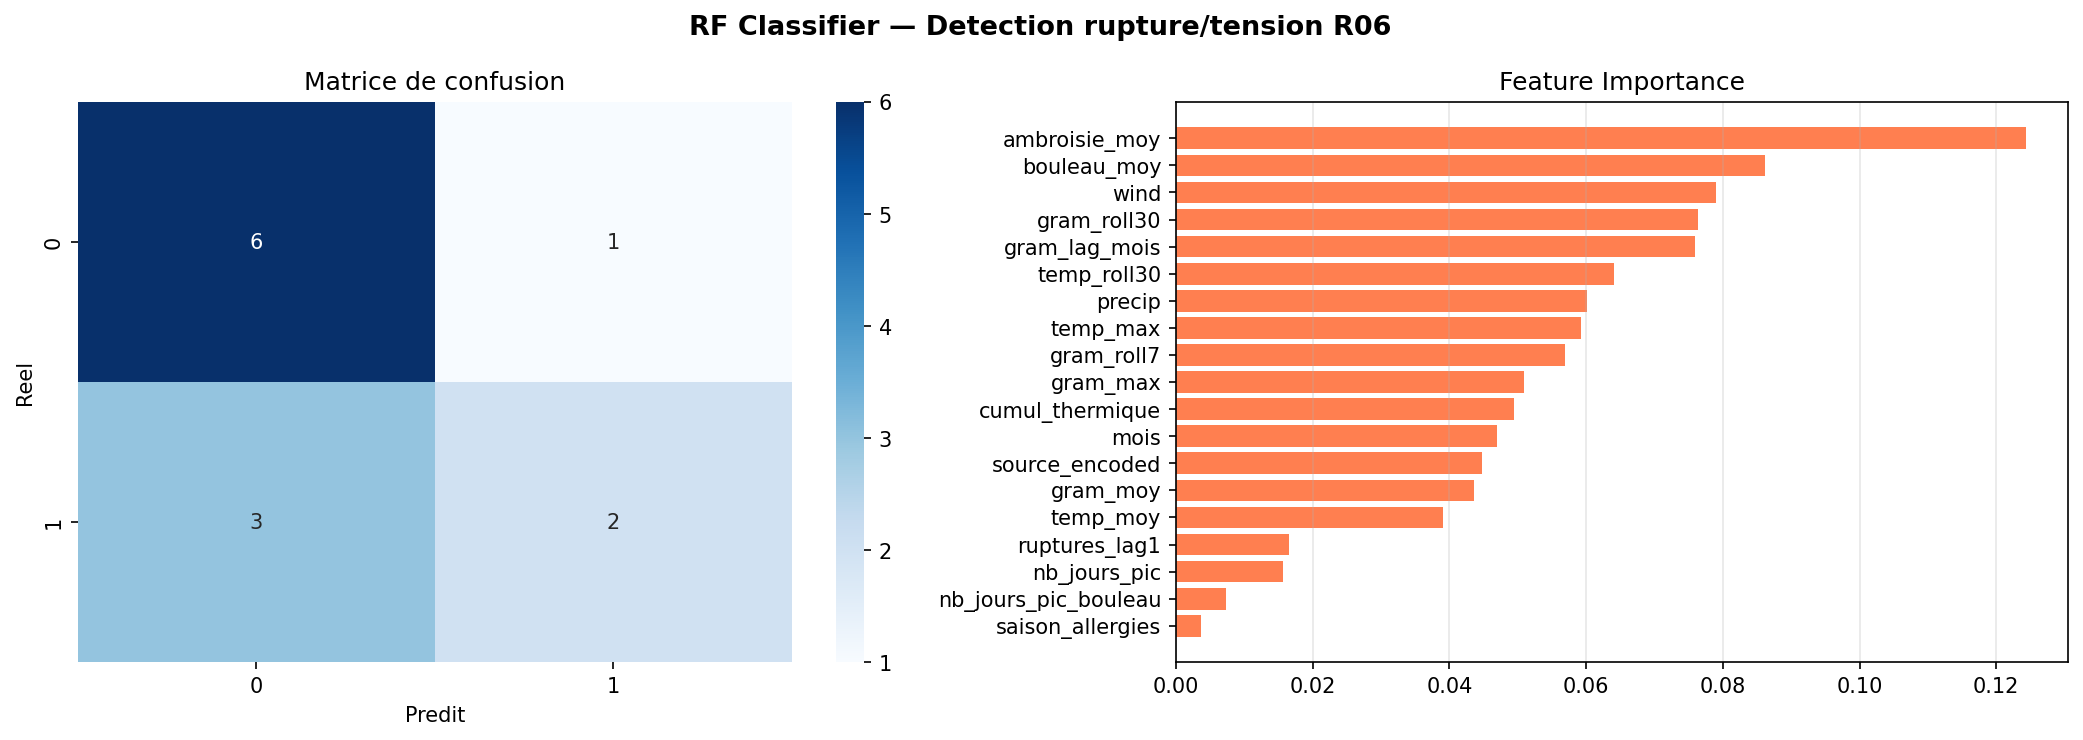
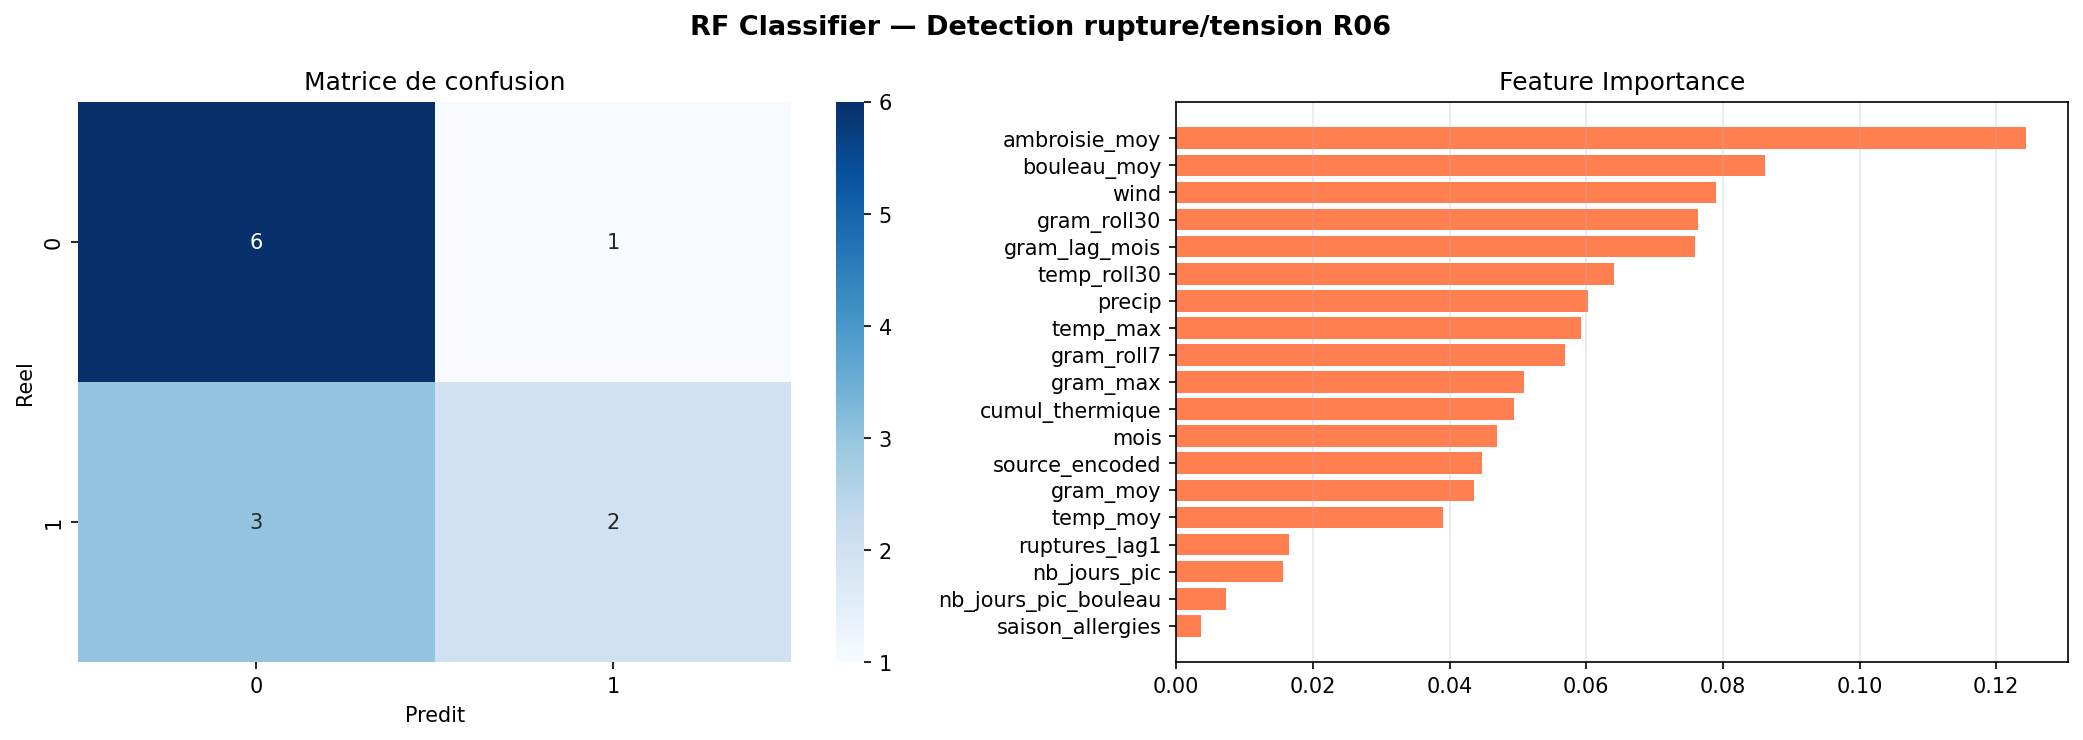
J5 - dashboard ruptures final avec filtres ATC et taux rupture

diff --git a/src/dashboard/pages/2_ruptures.py b/src/dashboard/pages/2_ruptures.py
@@ -1,7 +1,6 @@
 import streamlit as st
 import pandas as pd
 import plotly.express as px
-import plotly.graph_objects as go
 import os
 from sqlalchemy import create_engine
 from dotenv import load_dotenv
@@ -11,127 +10,195 @@ ENGINE = create_engine(os.getenv('DB_URL'))
 
 st.set_page_config(page_title="Ruptures ANSM", page_icon="💊", layout="wide")
 st.title("💊 Médicaments & Ruptures de stock ANSM")
-st.markdown("Analyse des antihistaminiques R06A — 2021 à 2024")
+st.markdown("Analyse des ruptures de stock par classe ATC — 2021 à 2024")
 
 # ── Chargement ──────────────────────────────────────────────
 @st.cache_data
 def load_data():
-    med = pd.read_sql("SELECT * FROM medicaments", ENGINE)
-    rup = pd.read_sql("SELECT * FROM ruptures", ENGINE)
-    return med, rup
+    med  = pd.read_sql("SELECT * FROM medicaments", ENGINE)
+    rup  = pd.read_sql("SELECT * FROM ruptures", ENGINE)
+    try:
+        gold = pd.read_csv('data/gold/gold_ml_advanced.csv')
+    except:
+        gold = pd.read_csv('data/gold/gold_ml.csv')
+    return med, rup, gold
 
-med, rup = load_data()
-anti_med = med[med['est_antihistaminique'] == True]
-anti_rup = rup[rup['est_antihistaminique'] == True]
+med, rup, gold = load_data()
+
+# ── Filtres sidebar ─────────────────────────────────────────
+st.sidebar.header("🔍 Filtres")
+
+classe_select = st.sidebar.selectbox(
+    "Classe ATC",
+    ['R06 — Antihistaminiques', 'R03 — Antiasthmatiques', 'J01 — Antibiotiques'],
+    index=0
+)
+code_atc = classe_select.split(' ')[0]
+
+annees_dispo = sorted(rup['annee'].dropna().unique().astype(int))
+annees_select = st.sidebar.multiselect(
+    "Année(s)",
+    options=annees_dispo,
+    default=annees_dispo
+)
+
+# ── Application des filtres ─────────────────────────────────
+anti_med = med[med['code_atc'].str.startswith(code_atc, na=False)]
+anti_rup = rup[
+    (rup['code_atc'].str.startswith(code_atc, na=False)) &
+    (rup['annee'].isin(annees_select))
+]
 
 # ── KPIs ────────────────────────────────────────────────────
-col1, col2, col3, col4 = st.columns(4)
-col1.metric("Antihistaminiques", f"{len(anti_med)}")
+col1, col2, col3, col4, col5 = st.columns(5)
+col1.metric("Médicaments", f"{len(anti_med)}")
 col2.metric("Ruptures totales", f"{len(anti_rup)}")
 col3.metric("Molécules touchées", f"{anti_rup['molecule'].nunique()}")
-col4.metric("Pic de ruptures", "2022")
+annee_pic = anti_rup.groupby('annee').size().idxmax() if len(anti_rup) > 0 else "N/A"
+col4.metric("Pic de ruptures", str(annee_pic))
+taux = gold['target_rupture'].mean() * 100
+col5.metric("Taux de rupture R06", f"{taux:.1f}%")
 
 st.markdown("---")
 
-# ── Section 1 : Laboratoires ────────────────────────────────
-st.subheader("🏭 Top 10 laboratoires")
-top_labo = anti_med['laboratoire'].value_counts().head(10).reset_index()
-top_labo.columns = ['laboratoire', 'count']
-fig1 = px.bar(top_labo, x='count', y='laboratoire', orientation='h',
-              color='count', color_continuous_scale='Blues',
-              title="Top 10 laboratoires — antihistaminiques")
-fig1.update_layout(yaxis={'categoryorder': 'total ascending'})
+# ── Section 1 : Ruptures par année ──────────────────────────
+st.subheader("📅 Évolution des ruptures par année")
+rup_annee = anti_rup.groupby('annee').size().reset_index(name='nb_ruptures')
+fig1 = px.bar(rup_annee, x='annee', y='nb_ruptures',
+              labels={'nb_ruptures': 'Nombre de ruptures', 'annee': 'Année'},
+              color='nb_ruptures', color_continuous_scale='Reds',
+              title=f"Ruptures {code_atc} par année")
+fig1.update_xaxes(tickmode='linear')
+fig1.update_coloraxes(colorbar_title="Nombre de ruptures")
 st.plotly_chart(fig1, use_container_width=True)
 
 st.markdown("---")
 
-# ── Section 2 : Profil patients ─────────────────────────────
-st.subheader("👥 Profil démographique des patients")
-col1, col2 = st.columns(2)
-
-age_means = anti_med[['pct_age_0_19_ans', 'pct_age_20_59_ans', 'pct_age_60_ans_et_plus']].mean()
-fig2 = px.pie(
-    values=age_means.values,
-    names=['0–19 ans', '20–59 ans', '60 ans +'],
-    title="Répartition par âge",
-    color_discrete_sequence=px.colors.qualitative.Set2
-)
-col1.plotly_chart(fig2, use_container_width=True)
-
-sexe_means = anti_med[['pct_sexe_female', 'pct_sexe_male']].mean()
-fig3 = px.pie(
-    values=sexe_means.values,
-    names=['Femmes', 'Hommes'],
-    title="Répartition par sexe",
-    color_discrete_sequence=['#E07B8A', '#7B9FE0']
-)
-col2.plotly_chart(fig3, use_container_width=True)
+# ── Section 2 : Taux de rupture mensuel ─────────────────────
+st.subheader("📊 Taux de rupture mensuel R06A")
+gold_sorted = gold.sort_values('annee_mois_str')
+fig_taux = px.bar(gold_sorted, x='annee_mois_str', y='target_rupture',
+                  labels={
+                      'annee_mois_str': 'Mois',
+                      'target_rupture': 'Rupture (0=Non / 1=Oui)'
+                  },
+                  color='target_rupture',
+                  color_discrete_map={0: '#4ECDC4', 1: '#FF6B6B'},
+                  title="Mois avec rupture ou tension R06A (2021–2026)")
+fig_taux.update_xaxes(tickangle=45)
+st.plotly_chart(fig_taux, use_container_width=True)
 
 st.markdown("---")
 
-# ── Section 3 : Ruptures par année ──────────────────────────
-st.subheader("📅 Évolution des ruptures par année")
-rup_annee = anti_rup.groupby('annee').size().reset_index(name='nb_ruptures')
-fig4 = px.bar(rup_annee, x='annee', y='nb_ruptures',
-              color='nb_ruptures', color_continuous_scale='Reds',
-              title="Ruptures antihistaminiques par année")
-fig4.update_xaxes(tickmode='linear')
-st.plotly_chart(fig4, use_container_width=True)
-
-st.markdown("---")
-
-# ── Section 4 : Saisonnalité ────────────────────────────────
+# ── Section 3 : Saisonnalité ────────────────────────────────
 st.subheader("🗓️ Saisonnalité des ruptures")
 col1, col2 = st.columns(2)
 
 saison = anti_rup['saison_allergies'].value_counts().reset_index()
 saison.columns = ['saison', 'count']
 saison['saison'] = saison['saison'].map({1: 'Saison allergique', 0: 'Hors saison'})
-fig5 = px.pie(saison, values='count', names='saison',
+fig2 = px.pie(saison, values='count', names='saison',
               title="Ruptures saison vs hors saison",
               color_discrete_sequence=['#FF6B6B', '#4ECDC4'])
-col1.plotly_chart(fig5, use_container_width=True)
+col1.plotly_chart(fig2, use_container_width=True)
 
 rup_mois = anti_rup.groupby(['annee', 'mois']).size().reset_index(name='nb_ruptures')
-fig6 = px.density_heatmap(rup_mois, x='mois', y='annee', z='nb_ruptures',
+fig3 = px.density_heatmap(rup_mois, x='mois', y='annee', z='nb_ruptures',
+                           labels={
+                               'nb_ruptures': 'Nombre de ruptures',
+                               'mois': 'Mois',
+                               'annee': 'Année'
+                           },
                            color_continuous_scale='YlOrRd',
                            title="Heatmap ruptures par mois et année")
-fig6.update_xaxes(tickvals=list(range(1,13)),
+fig3.update_xaxes(tickvals=list(range(1,13)),
                   ticktext=['Jan','Fév','Mar','Avr','Mai','Jun',
                             'Jul','Aoû','Sep','Oct','Nov','Déc'])
-col2.plotly_chart(fig6, use_container_width=True)
+fig3.update_coloraxes(colorbar_title="Nombre de ruptures")
+col2.plotly_chart(fig3, use_container_width=True)
 
 st.markdown("---")
 
-# ── Section 5 : Top molécules ───────────────────────────────
+# ── Section 4 : Top molécules ───────────────────────────────
 st.subheader("💊 Top molécules en rupture")
 col1, col2 = st.columns(2)
 
 top_mol = anti_rup['molecule'].value_counts().head(10).reset_index()
 top_mol.columns = ['molecule', 'count']
-fig7 = px.bar(top_mol, x='count', y='molecule', orientation='h',
+fig4 = px.bar(top_mol, x='count', y='molecule', orientation='h',
+              labels={'count': 'Nombre de ruptures', 'molecule': 'Molécule'},
               color='count', color_continuous_scale='Purples',
-              title="Top 10 molécules en rupture")
-fig7.update_layout(yaxis={'categoryorder': 'total ascending'})
-col1.plotly_chart(fig7, use_container_width=True)
+              title=f"Top 10 molécules {code_atc} en rupture")
+fig4.update_layout(yaxis={'categoryorder': 'total ascending'})
+fig4.update_coloraxes(colorbar_title="Nombre de ruptures")
+col1.plotly_chart(fig4, use_container_width=True)
 
 causes = anti_rup['cause_categorie'].value_counts().reset_index()
 causes.columns = ['cause', 'count']
-fig8 = px.bar(causes, x='cause', y='count',
+fig5 = px.bar(causes, x='cause', y='count',
+              labels={'count': 'Nombre de ruptures', 'cause': 'Cause'},
               color='count', color_continuous_scale='Oranges',
               title="Causes de rupture")
-fig8.update_xaxes(tickangle=30)
-col2.plotly_chart(fig8, use_container_width=True)
+fig5.update_xaxes(tickangle=30)
+fig5.update_coloraxes(colorbar_title="Nombre de ruptures")
+col2.plotly_chart(fig5, use_container_width=True)
 
 st.markdown("---")
 
-# ── Section 6 : Jointure médicaments × ruptures ─────────────
+st.markdown("---")
+
+# ── Section 5 : Jointure médicaments × ruptures ─────────────
 st.subheader("🔗 Médicaments les plus prescrits en rupture")
 jointure = anti_med.merge(anti_rup, on='cis', how='inner')
-top_rup = jointure.groupby('molecule_x')['nb_patients_ville_x'].mean().sort_values(ascending=False).head(10).reset_index()
-top_rup.columns = ['molecule', 'nb_patients_moyen']
-fig9 = px.bar(top_rup, x='nb_patients_moyen', y='molecule', orientation='h',
-              color='nb_patients_moyen', color_continuous_scale='RdYlGn',
-              title="Molécules en rupture — nombre moyen de patients")
-fig9.update_layout(yaxis={'categoryorder': 'total ascending'})
-st.plotly_chart(fig9, use_container_width=True)
+
+if len(jointure) > 0:
+    top_rup = jointure.groupby('molecule_x')['nb_patients_ville_x'].mean().sort_values(ascending=False).head(10).reset_index()
+    top_rup.columns = ['molecule', 'nb_patients_moyen']
+    fig6 = px.bar(top_rup, x='nb_patients_moyen', y='molecule', orientation='h',
+                  labels={
+                      'nb_patients_moyen': 'Nombre moyen de patients',
+                      'molecule': 'Molécule'
+                  },
+                  color='nb_patients_moyen', color_continuous_scale='RdYlGn',
+                  title=f"Molécules {code_atc} en rupture — nombre moyen de patients")
+    fig6.update_layout(yaxis={'categoryorder': 'total ascending'})
+    fig6.update_coloraxes(colorbar_title="Nombre moyen de patients")
+    st.plotly_chart(fig6, use_container_width=True)
+
+    st.markdown("---")
+
+    # ── Scatter plot ─────────────────────────────────────────
+    st.subheader("🎯 Molécules à double risque — Prescription vs Ruptures")
+
+    scatter_data = jointure.groupby('molecule_x').agg(
+        nb_ruptures=('cis', 'count'),
+        nb_patients_moyen=('nb_patients_ville_x', 'mean')
+    ).reset_index()
+    scatter_data.columns = ['molecule', 'nb_ruptures', 'nb_patients_moyen']
+
+    # Tronquer les noms longs
+    scatter_data['molecule_court'] = scatter_data['molecule'].str[:20] + \
+        scatter_data['molecule'].apply(lambda x: '...' if len(x) > 20 else '')
+
+    fig_scatter = px.scatter(
+        scatter_data,
+        x='nb_patients_moyen',
+        y='nb_ruptures',
+        text='molecule_court',
+        hover_name='molecule',
+        size='nb_ruptures',
+        color='nb_ruptures',
+        color_continuous_scale='Reds',
+        labels={
+            'nb_patients_moyen': 'Nombre moyen de patients',
+            'nb_ruptures': 'Nombre de ruptures',
+        },
+        title="Molécules à double risque — Volume de prescription vs Nombre de ruptures"
+    )
+    fig_scatter.update_traces(textposition='top center', textfont_size=10)
+    fig_scatter.update_coloraxes(colorbar_title="Nb ruptures")
+    st.plotly_chart(fig_scatter, use_container_width=True)
+    st.caption("💡 Les molécules en haut à droite sont les plus critiques — très prescrites ET souvent en rupture")
+
+else:
+    st.info("Pas de données disponibles pour cette classe ATC.")